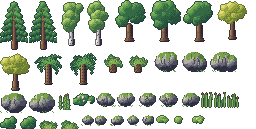
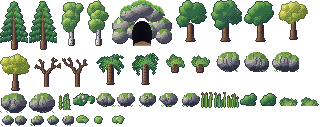
Cave entrance (handoff 3 E3, ref-6): a hillside of mossy boulders round a dark arched mouth with grass over the lip and the floor running in, the terminal glowing inside; the hill is solid; bare branching trees, stones and a puddle on the path; bump the cache version

diff --git a/js/world.js b/js/world.js
@@ -83,7 +83,7 @@
      tools/envart.py). the rest of the island converts once Ammaar approves the look */
   var TEST = [[13, 18, 41, 47], [57, 39, 81, 57]];
   function inTest(x, y) { for (var i = 0; i < TEST.length; i++) { var r = TEST[i]; if (x >= r[0] && x <= r[2] && y >= r[1] && y <= r[3]) return true; } return false; }
-  var ENV = {"pine0":[0,0,28,50,14,48],"pine1":[29,0,28,50,14,48],"birch0":[58,0,26,46,13,44],"birch1":[85,0,26,46,13,44],"oak0":[112,0,34,42,17,40],"oak1":[147,0,34,42,17,40],"oak2":[182,0,34,42,17,40],"ginkgo0":[217,0,30,40,15,38],"ginkgo1":[0,51,30,40,15,38],"tfern0":[31,51,34,34,17,32],"tfern1":[66,51,34,34,17,32],"cycad0":[101,51,24,22,12,20],"cycad1":[126,51,24,22,12,20],"rock2_0":[151,51,28,22,14,20],"rock2_1":[180,51,28,22,14,20],"rock2_2":[209,51,28,22,14,20],"rock2_3":[0,92,28,22,14,20],"rock2_4":[29,92,28,22,14,20],"horsetail0":[58,92,14,18,7,17],"magnolia0":[73,92,22,16,11,15],"rock1_0":[96,92,20,16,10,14],"rock1_1":[117,92,20,16,10,14],"rock1_2":[138,92,20,16,10,14],"rock1_3":[159,92,20,16,10,14],"rock1_4":[180,92,20,16,10,14],"reeds0":[201,92,12,16,6,15],"reeds1":[214,92,12,16,6,15],"reeds2":[227,92,12,16,6,15],"bush0":[0,115,18,14,9,13],"bush1":[19,115,18,14,9,13],"fern0":[38,115,20,14,10,13],"fern1":[59,115,20,14,10,13],"rock0_0":[80,115,14,12,7,10],"rock0_1":[95,115,14,12,7,10],"rock0_2":[110,115,14,12,7,10],"rock0_3":[125,115,14,12,7,10],"rock0_4":[140,115,14,12,7,10],"lilies0":[155,115,16,10,8,9],"lilies1":[172,115,16,10,8,9],"lilies2":[189,115,16,10,8,9]};
+  var ENV = {"pine0":[0,0,28,50,14,48],"pine1":[29,0,28,50,14,48],"birch0":[58,0,26,46,13,44],"birch1":[85,0,26,46,13,44],"cavemouth":[112,0,60,46,30,45],"oak0":[173,0,34,42,17,40],"oak1":[208,0,34,42,17,40],"oak2":[243,0,34,42,17,40],"ginkgo0":[278,0,30,40,15,38],"ginkgo1":[0,51,30,40,15,38],"baretree0":[31,51,30,36,15,35],"baretree1":[62,51,30,36,15,35],"tfern0":[93,51,34,34,17,32],"tfern1":[128,51,34,34,17,32],"cycad0":[163,51,24,22,12,20],"cycad1":[188,51,24,22,12,20],"rock2_0":[213,51,28,22,14,20],"rock2_1":[242,51,28,22,14,20],"rock2_2":[271,51,28,22,14,20],"rock2_3":[0,92,28,22,14,20],"rock2_4":[29,92,28,22,14,20],"horsetail0":[58,92,14,18,7,17],"magnolia0":[73,92,22,16,11,15],"rock1_0":[96,92,20,16,10,14],"rock1_1":[117,92,20,16,10,14],"rock1_2":[138,92,20,16,10,14],"rock1_3":[159,92,20,16,10,14],"rock1_4":[180,92,20,16,10,14],"reeds0":[201,92,12,16,6,15],"reeds1":[214,92,12,16,6,15],"reeds2":[227,92,12,16,6,15],"bush0":[240,92,18,14,9,13],"bush1":[259,92,18,14,9,13],"fern0":[278,92,20,14,10,13],"fern1":[299,92,20,14,10,13],"rock0_0":[0,115,14,12,7,10],"rock0_1":[15,115,14,12,7,10],"rock0_2":[30,115,14,12,7,10],"rock0_3":[45,115,14,12,7,10],"rock0_4":[60,115,14,12,7,10],"lilies0":[75,115,16,10,8,9],"lilies1":[92,115,16,10,8,9],"lilies2":[109,115,16,10,8,9]};
   var PAL = { grass: ["#24463f", "#2e5d44", "#3d7a47", "#55944a", "#73ad51", "#98c65c"], dirt: ["#4a3634", "#6b4c3b", "#8e6a4a", "#b08c5e", "#cdaa74"],
               water: ["#1e3a66", "#23507c", "#2a6892", "#3582a8", "#48a0bc", "#6cbcca"], rim: ["#b4e4e0", "#e2f6ee"], rock: ["#2f2f44", "#4a4a5a", "#6a6a72", "#8e8c8c", "#b5b0a6", "#d6cfbd"],
               moss: ["#35553a", "#4f7a3c", "#79a24a"], wood: ["#2e2433", "#4a3635", "#6b4d3c", "#8e6a48", "#b08a5c"], flower: ["#f2e9e4", "#f5c84b", "#d98bb3", "#9d7ad2"] };   // from art/palette.json
@@ -322,6 +322,15 @@
       props.push({ kind: "rock", tx: x, ty: y });
     }
   }
+  // the cave's surroundings (ref-6): the hillside is solid, two bare trees and some stones beside it
+  (function () {
+    var cs = STATIONS.filter(function (q) { return q.id === "cave"; })[0]; if (!cs) return;
+    for (var yy = cs.y - 2; yy <= cs.y - 1; yy++) for (var xx = cs.x - 2; xx <= cs.x + 2; xx++) solid[k(xx, yy)] = 1;
+    solid[k(cs.x - 2, cs.y)] = 1; solid[k(cs.x + 2, cs.y)] = 1;
+    [["e:baretree0", cs.x - 4, cs.y], ["e:baretree1", cs.x + 4, cs.y - 1], ["e:rock0_1", cs.x - 3, cs.y + 1], ["e:rock0_3", cs.x + 3, cs.y + 1], ["e:rock1_2", cs.x + 5, cs.y + 1]].forEach(function (q) {
+      if (walkable0(q[1], q[2])) { props.push({ kind: q[0], tx: q[1], ty: q[2], flip: hash(q[1], q[2]) < 0.5, ox: 0, oy: 0 }); if (/tree/.test(q[0])) solid[k(q[1], q[2])] = 1; }
+    });
+  })();
   // lily pads on the test area's water: a few clusters on the pond, clear of the middle
   for (y = 0; y < MH; y++) for (x = 0; x < MW; x++) {
     if (!inTest(x, y) || map[y][x] !== POND) continue;
@@ -849,6 +858,15 @@
     }
 
     paintTest(g);
+    // a puddle on the path into the cave, lit on its far rim
+    (function () {
+      var cs = STATIONS.filter(function (q) { return q.id === "cave"; })[0]; if (!cs) return;
+      var pcx = (cs.x + 1.2) * T, pcy = (cs.y + 1.4) * T;
+      for (var yy = -4; yy <= 4; yy++) for (var xx = -8; xx <= 8; xx++) {
+        var d = (xx * xx) / 64 + (yy * yy) / 14 + (hash(xx + 40, yy + 40) - 0.5) * 0.15; if (d > 1) continue;
+        g.fillStyle = d > 0.72 && yy < 0 ? PAL.rim[0] : soft(0.55 - d * 0.35, PAL.water, pcx + xx, pcy + yy); g.fillRect(pcx + xx, pcy + yy, 1, 1);
+      }
+    })();
     // the pond, pixel by pixel: deeper toward the middle, a stone rim, reeds and lily pads
     var oldPond = !inTest(Math.round(KP.x), Math.round(KP.y));
     if (oldPond) for (var py = Math.floor((KP.y - 3) * T); py < (KP.y + 3) * T; py++) for (var px = Math.floor((KP.x - 7) * T); px < (KP.x + 7) * T; px++) {
@@ -1677,10 +1695,10 @@
       c.getContext("2d").drawImage(ENV_IMG, e[0], e[1], e[2], e[3], 0, 0, e[2], e[3]); SPR["e:" + n] = c;
     });
   };
-  ENV_IMG.src = "img/atlas/env.png?v=20261013";
+  ENV_IMG.src = "img/atlas/env.png?v=20261014";
   var SHEET_IMG = new Image(), sheetReady = false;
   SHEET_IMG.onload = function () { sheetReady = true; };
-  SHEET_IMG.src = "assets/island/dinos.png?v=20261013";
+  SHEET_IMG.src = "assets/island/dinos.png?v=20261014";
   var DART = {}, BLANK = mkCanvas(); BLANK.width = BLANK.height = 1;
   function dinoFrame(kind, mode, i) {
     var d = SHEET[kind]; if (!d || !sheetReady) return BLANK;
@@ -4220,6 +4238,19 @@
       var gl = 0.35 + 0.35 * Math.sin(t * 1.3);
       ctx.fillStyle = "rgba(160,120,255," + gl.toFixed(2) + ")"; ctx.fillRect(sx1 + 11, sy1 + 15, 2, 2);
       light(bx, sy1 + 16, 26, "160,120,255", 0.8);
+      return;
+    }
+    if (s.id === "cave" && SPR["e:cavemouth"]) {
+      // ref-6's cave (handoff 3, E3): a hillside of mossy boulders round a dark mouth, grass over the
+      // lip, the floor running in. the terminal still hums green deep inside
+      var cm = SPR["e:cavemouth"], mx = s.x * T + 8 - 30, my = s.y * T + 15 - 45;
+      softShadow(s.x * T + 10, s.y * T + 14, 56);
+      ctx.drawImage(cm, mx, my);
+      var fl2 = 0.55 + 0.35 * Math.sin(t * 7) * Math.sin(t * 2.3);
+      ctx.fillStyle = "#15151a"; ctx.fillRect(mx + 26, my + 30, 8, 6);
+      ctx.fillStyle = "rgba(74,222,128," + fl2.toFixed(2) + ")"; ctx.fillRect(mx + 27, my + 31, 6, 4);
+      if (Math.floor(t * 2) % 2) { ctx.fillStyle = "#b8ffd0"; ctx.fillRect(mx + 27, my + 34, 1, 1); }
+      light(mx + 30, my + 34, 22, "74,222,128", 0.7);
       return;
     }
     if (s.id === "cave") {

diff --git a/index.html b/index.html
@@ -30,14 +30,14 @@
     "sameAs": ["https://www.linkedin.com/in/ammaarrehman/"]
   }
   </script>
-  <script src="js/head.js?v=20261013"></script>
+  <script src="js/head.js?v=20261014"></script>
   <link rel="icon" type="image/svg+xml" href="assets/favicon.svg" />
   <link rel="icon" type="image/png" sizes="32x32" href="assets/favicon-32.png" />
   <link rel="apple-touch-icon" href="assets/apple-touch-icon.png" />
   <link rel="manifest" href="site.webmanifest" />
   <link rel="me" href="https://www.linkedin.com/in/ammaarrehman/" />
   <link rel="preload" href="fonts/cascadia-mono-latin.woff2" as="font" type="font/woff2" crossorigin />
-  <link rel="stylesheet" href="css/styles.css?v=20261013" />
+  <link rel="stylesheet" href="css/styles.css?v=20261014" />
 </head>
 <body>
 
@@ -494,12 +494,12 @@
     </div>
   </footer>
 
-  <script src="js/skills.js?v=20261013"></script>
-  <script src="js/boot.js?v=20261013"></script>
-  <script src="js/site.js?v=20261013"></script>
-  <script src="js/windows.js?v=20261013"></script>
-  <script src="js/face.js?v=20261013"></script>
-  <script src="js/orb.js?v=20261013"></script>
-  <script src="js/hands.js?v=20261013"></script>
+  <script src="js/skills.js?v=20261014"></script>
+  <script src="js/boot.js?v=20261014"></script>
+  <script src="js/site.js?v=20261014"></script>
+  <script src="js/windows.js?v=20261014"></script>
+  <script src="js/face.js?v=20261014"></script>
+  <script src="js/orb.js?v=20261014"></script>
+  <script src="js/hands.js?v=20261014"></script>
 </body>
 </html>

diff --git a/js/site.js b/js/site.js
@@ -161,8 +161,8 @@
       if (island) return;
       island = 1;
       var failed = function () { island = 0; orbBtn.removeAttribute("aria-busy"); if (hint) hint.textContent = "[ the island didn't load. try again ]"; };
-      script("js/audio.js?v=20261013", function () {
-        script("js/world.js?v=20261013", function () {
+      script("js/audio.js?v=20261014", function () {
+        script("js/world.js?v=20261014", function () {
           island = 2; orbBtn.removeAttribute("aria-busy"); if (hint) hint.textContent = hint0;
           if (go && window.islandEnter) window.islandEnter();
         }, failed);

diff --git a/tools/envart.py b/tools/envart.py
@@ -305,6 +305,76 @@ def lilies(seed):
     sp.outline(skip=("blossom",)); return sp, (8, 9)
 
 
+def rockblob(sp, cx, cy, rx, ry, rng, moss=True):
+    """one boulder in a pile: faceted, lit from the top left, a moss cap"""
+    facets = rng.choice([4, 5, 6])
+    for y in range(int(cy - ry) - 1, int(cy + ry) + 2):
+        for x in range(int(cx - rx) - 1, int(cx + rx) + 2):
+            u, v = (x + 0.5 - cx) / rx, (y + 0.5 - cy) / ry
+            d = u * u + v * v
+            if d > 1: continue
+            ang = round(math.atan2(v, u) / (math.pi / facets)) * (math.pi / facets)
+            rr = math.sqrt(d); nx, ny = math.cos(ang) * rr, math.sin(ang) * rr
+            nz = math.sqrt(max(0, 1 - nx * nx - ny * ny))
+            lam = max(0.0, nx * L[0] + ny * L[1] + nz * L[2])
+            if moss and ny < -0.5 + 0.2 * math.sin(x * 0.9 + cx):
+                sp.put(x, y, tone(R["moss"], 0.35 + 0.65 * lam, x, y, 0.2), "moss")
+            else:
+                sp.put(x, y, tone(R["rock"], min(1, 0.12 + 0.88 * lam), x, y, 0.15), "rock")
+
+
+def cavemouth(seed):
+    """ref-6's cave: a hillside of stacked boulders around a dark opening, grass hanging over the
+    lip, the floor running in. the terminal's glow is drawn by the game, inside the opening"""
+    rng = random.Random(seed); W, H = 60, 46; sp = Sprite(W, H)
+    # the hill behind: big boulders, back to front
+    piles = [(12, 26, 11, 9), (48, 26, 11, 9), (18, 14, 10, 8), (42, 14, 10, 8), (30, 9, 12, 8), (8, 36, 8, 7), (52, 36, 8, 7), (22, 32, 7, 7), (38, 32, 7, 7)]
+    for (cx, cy, rx, ry) in piles: rockblob(sp, cx, cy, rx, ry, rng)
+    # grass over the top of the hill, hanging in tufts
+    for x in range(8, 53):
+        top = next((y for y in range(H) if sp.px[y, x, 3]), None)
+        if top is None: continue
+        hang = 2 + int(abs(math.sin(x * 0.7 + seed)) * 3) + (3 if (x * 7 + seed) % 11 == 0 else 0)
+        for k in range(-1, hang):
+            if 0 <= top + k < H: sp.put(x, top + k, R["grass"][5 if k < 0 else 4 if k < hang - 1 else 2], "grass")
+    # the opening: an arch, dark and going darker inward, with a lit rim of rock around it
+    ox, oy, orx, ory = 30, 34, 10, 13
+    for y in range(oy - ory, H):
+        for x in range(ox - orx - 1, ox + orx + 2):
+            u, v = (x + 0.5 - ox) / orx, (y + 0.5 - oy) / ory
+            inside = (u * u + v * v <= 1) if y < oy else abs(u) <= 1 - (y - oy) * 0.01
+            if not inside: continue
+            depth = 1 - min(1, abs(u) * 0.8 + max(0, (oy - y) / ory) * 0.3)
+            c = (int(22 - 14 * depth), int(18 - 12 * depth), int(30 - 16 * depth))
+            sp.put(x, y, c, "void")
+    for x in range(ox - orx, ox + orx + 1):                      # a lip of lit rock over the arch
+        for y in range(oy - ory - 2, oy + 2):
+            if sp.mat[y, x] == "rock" and 0 <= y + 1 < H and sp.mat[y + 1, x] == "void":
+                sp.put(x, y, R["rock"][4], "rock"); break
+    for y in range(H - 6, H):                                     # the floor running in, packed dirt
+        for x in range(ox - orx + 2, ox + orx - 1):
+            if sp.mat[y, x] == "void" and (y - (H - 6)) > abs(x - ox) * 0.4:
+                sp.put(x, y, tone(R["dirt"], 0.25 + (y - (H - 6)) * 0.08, x, y, 0.2), "dirt")
+    sp.outline(skip=("void", "grass", "moss", "dirt")); return sp, (30, H - 1)
+
+
+def baretree(seed):
+    """a dead, branching tree by the cave: no leaves, wood lit on the left"""
+    rng = random.Random(seed); sp = Sprite(30, 36)
+    def branch(x, y, ang, length, w, depth):
+        for i in range(int(length)):
+            px, py = x + math.cos(ang) * i, y + math.sin(ang) * i
+            for k in range(-int(w // 2), int(w // 2) + 1):
+                qx = int(round(px + k * math.cos(ang + math.pi / 2)))
+                sp.put(qx, int(round(py)), R["wood"][3 if k < 0 else 2 if k == 0 else 1], "wood")
+        ex, ey = x + math.cos(ang) * length, y + math.sin(ang) * length
+        if depth > 0:
+            for s in (-1, 1):
+                if rng.random() < 0.9: branch(ex, ey, ang + s * rng.uniform(0.35, 0.7), length * rng.uniform(0.55, 0.75), max(1, w - 1), depth - 1)
+    branch(15, 35, -math.pi / 2, 12, 3, 4)
+    sp.outline(); return sp, (15, 35)
+
+
 def all_sprites():
     s = {}
     for i in range(3): s["oak%d" % i] = broadleaf(10 + i)
@@ -321,6 +391,8 @@ def all_sprites():
         for v in range(5): s["rock%d_%d" % (size, v)] = rock(size, v)
     for i in range(3): s["reeds%d" % i] = reeds(120 + i)
     for i in range(3): s["lilies%d" % i] = lilies(130 + i)
+    s["cavemouth"] = cavemouth(140)
+    for i in range(2): s["baretree%d" % i] = baretree(150 + i)
     return s
 
 
@@ -328,7 +400,7 @@ def main():
     sprites = all_sprites()
     # shelf-pack them into one atlas
     items = sorted(sprites.items(), key=lambda kv: -kv[1][0].h)
-    W, x, y, rowh, pos = 256, 0, 0, 0, {}
+    W, x, y, rowh, pos = 320, 0, 0, 0, {}
     for name, (sp, anchor) in items:
         if x + sp.w > W: x, y, rowh = 0, y + rowh + 1, 0
         pos[name] = (x, y); x += sp.w + 1; rowh = max(rowh, sp.h)
